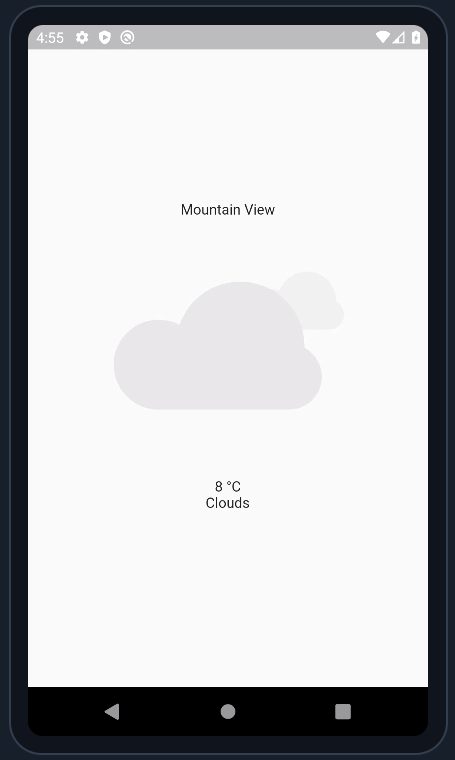
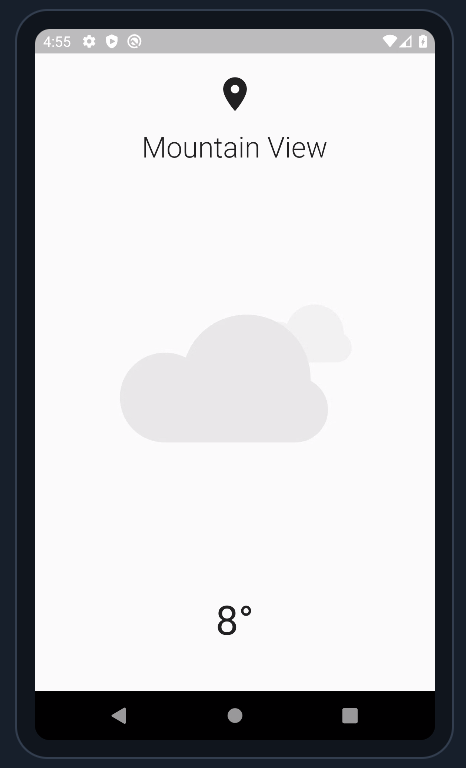
update layout

diff --git a/lib/pages/weather_page.dart b/lib/pages/weather_page.dart
@@ -77,15 +77,46 @@ class _WeatherPageState extends State<WeatherPage> {
   @override
   Widget build(BuildContext context) {
     return Scaffold(
-        body: Center(
-            child: Column(
-      mainAxisAlignment: MainAxisAlignment.center,
-      children: [
-        Text(_weather?.cityName ?? "Loading city"),
-        Lottie.asset(getWeatherAnimation(_weather?.mainCondition)),
-        Text('${_weather?.temperature.round()} °C'),
-        Text(_weather?.mainCondition ?? "")
-      ],
-    )));
+      body: Center(
+        child: Padding(
+          padding:
+              const EdgeInsets.only(top: 20.0), // Adjust the value as needed
+          child: ListView.separated(
+            itemBuilder: (context, index) {
+              if (index == 0) {
+                return const Icon(
+                  Icons.location_on,
+                  size: 40.0, // Adjust the size of the icon as needed
+                );
+              }
+              if (index == 1) {
+                return Text(
+                  _weather?.cityName ?? "Loading city",
+                  style: const TextStyle(
+                      fontSize: 28, fontWeight: FontWeight.w300),
+                  textAlign: TextAlign.center,
+                );
+              } else if (index == 2) {
+                return Lottie.asset(
+                    getWeatherAnimation(_weather?.mainCondition));
+              } else {
+                return Text(
+                  '${_weather?.temperature.round()}°',
+                  style: const TextStyle(
+                      fontSize: 40, fontWeight: FontWeight.w400),
+                  textAlign: TextAlign.center,
+                );
+              }
+            },
+            separatorBuilder: (context, index) {
+              return const SizedBox(height: 16.0); // Adjust the value as needed
+            },
+            itemCount: 4, // Adjust the value based on the number of widgets
+            physics:
+                const BouncingScrollPhysics(), // Optional: Customize scroll physics
+          ),
+        ),
+      ),
+    );
   }
 }
